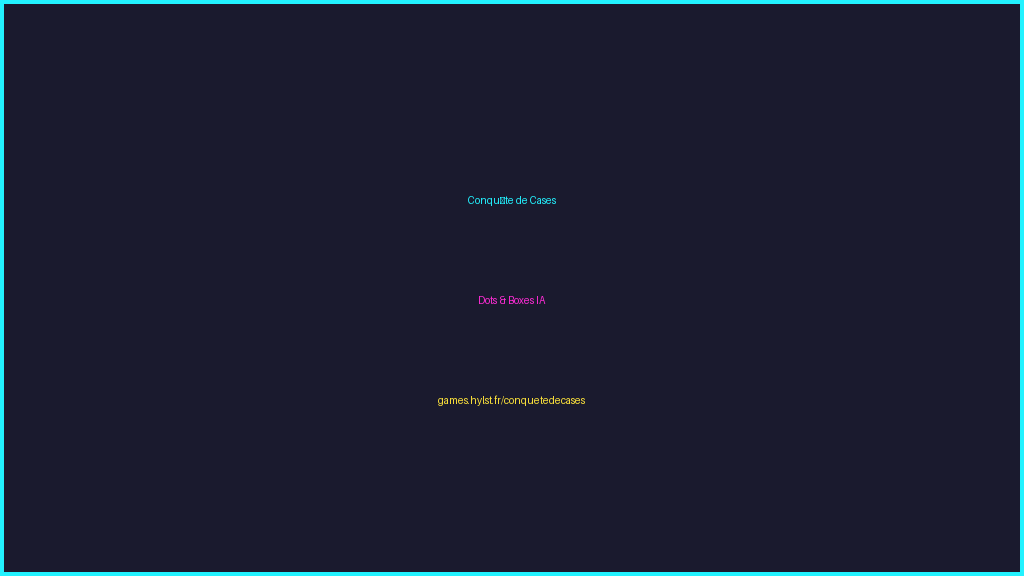
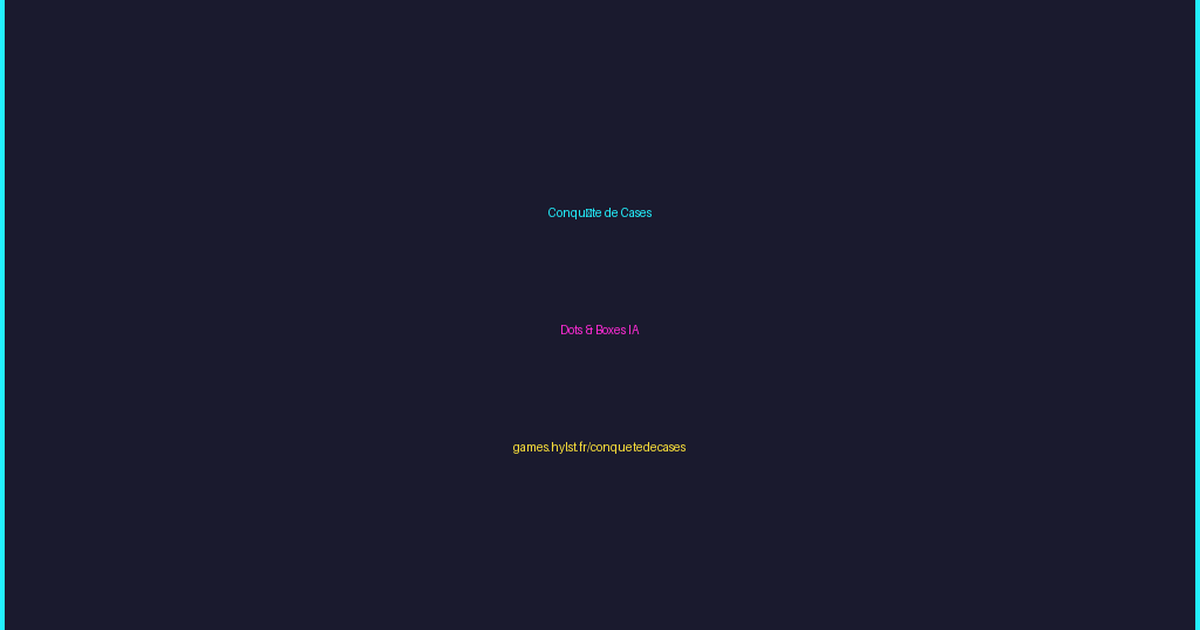
Open Graph : image 1200 x 630 et metadonnees completes

diff --git a/index.html b/index.html
@@ -15,16 +15,18 @@
     <meta property="og:url" content="https://games.hylst.fr/conquetedecases/" />
     <meta property="og:title" content="Conquête de Cases : Dots &amp; Boxes IA" />
     <meta property="og:description" content="Conquête de Cases, un jeu de Dots and Boxes modernisé avec campagne progressive, IA, musique d'ambiance et effets sonores." />
-    <meta property="og:image" content="https://games.hylst.fr/conquetedecases/og-image.png" />
-    <meta property="og:image:width" content="768" />
-    <meta property="og:image:height" content="432" />
+    <meta property="og:image" content="https://games.hylst.fr/conquetedecases/og-image.png?v=2" />
+    <meta property="og:image:type" content="image/png" />
+    <meta property="og:image:alt" content="Conquête de Cases" />
+    <meta property="og:image:width" content="1200" />
+    <meta property="og:image:height" content="630" />
 
     <!-- Twitter Card -->
     <meta name="twitter:card" content="summary_large_image" />
     <meta name="twitter:url" content="https://games.hylst.fr/conquetedecases/" />
     <meta name="twitter:title" content="Conquête de Cases : Dots &amp; Boxes IA" />
     <meta name="twitter:description" content="Conquête de Cases, un jeu de Dots and Boxes modernisé avec campagne progressive, IA, musique d'ambiance et effets sonores." />
-    <meta name="twitter:image" content="https://games.hylst.fr/conquetedecases/og-image.png" />
+    <meta name="twitter:image" content="https://games.hylst.fr/conquetedecases/og-image.png?v=2" />
 
     <link rel="canonical" href="https://games.hylst.fr/conquetedecases/" />
     <link rel="icon" type="image/png" href="/conquetedecases/favicon.png" />
